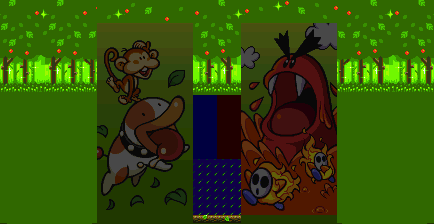
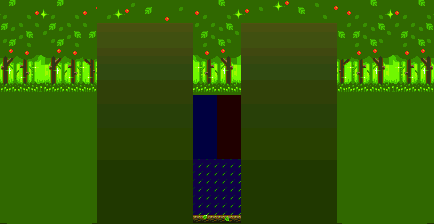
load random characters

diff --git a/app/src/renderer/components/playfield.js b/app/src/renderer/components/playfield.js
@@ -1,6 +1,7 @@
 module.exports = function(game){
   const APP = require('../../../app')('../../../')
   const _f = require(APP.path.core('filters'))
+  const ss = require('shuffle-seed')
   const ComponentMenuPause          = require(APP.path.components('menu_pause'))(game)
   const ComponentPlayfieldCountdown = require(APP.path.components('playfield_countdown'))(game)
   const ComponentPlayfieldCursor    = require(APP.path.components('playfield_cursor'))(game)
@@ -117,6 +118,7 @@ module.exports = function(game){
         throw new Error("must pass at least x,y,countdown and panels")
       }
 
+
       this.stage            = stage
       this.should_push      = opts.push      || false
       this.should_countdown = opts.countdown || false
@@ -124,8 +126,17 @@ module.exports = function(game){
       this.height = (ROWS+1) * UNIT
       this.width  = COLS     * UNIT
 
-      this.x = opts.x;
-      this.y = opts.y;
+      this.x = opts.x
+      this.y = opts.y
+      const ch = ss.shuffle(['00','01','02','03',
+                             '04','05','06','07',
+                             '08','09','10','11','12'],
+                             this.stage.rng())
+      this.bg = game.add.sprite(this.x+48, this.y-1, `playfield_char${ch[0]}`)
+      this.bg.anchor.set(0.5,0)
+      if (this.pi === 0) {
+        this.bg.scale.x = -1
+      }
 
       this.layer_block  = game.add.group()
       this.layer_block.x  = this.x

diff --git a/app/src/renderer/states/load.js b/app/src/renderer/states/load.js
@@ -84,6 +84,20 @@ module.exports = function(game){
       game.load.spritesheet('playfield_countdown'     , './assets/playfield_countdown.png', 62, 38, 4)
       game.load.spritesheet('panels'                  , './assets/panels.png'  , 16, 16, 136)
 
+      game.load.image('playfield_char00', './assets/char00.png')
+      game.load.image('playfield_char01', './assets/char01.png')
+      game.load.image('playfield_char02', './assets/char02.png')
+      game.load.image('playfield_char03', './assets/char03.png')
+      game.load.image('playfield_char04', './assets/char04.png')
+      game.load.image('playfield_char05', './assets/char05.png')
+      game.load.image('playfield_char06', './assets/char06.png')
+      game.load.image('playfield_char07', './assets/char07.png')
+      game.load.image('playfield_char08', './assets/char08.png')
+      game.load.image('playfield_char09', './assets/char09.png')
+      game.load.image('playfield_char10', './assets/char10.png')
+      game.load.image('playfield_char11', './assets/char11.png')
+      game.load.image('playfield_char12', './assets/char12.png')
+
       game.load.start()
     }
   }
